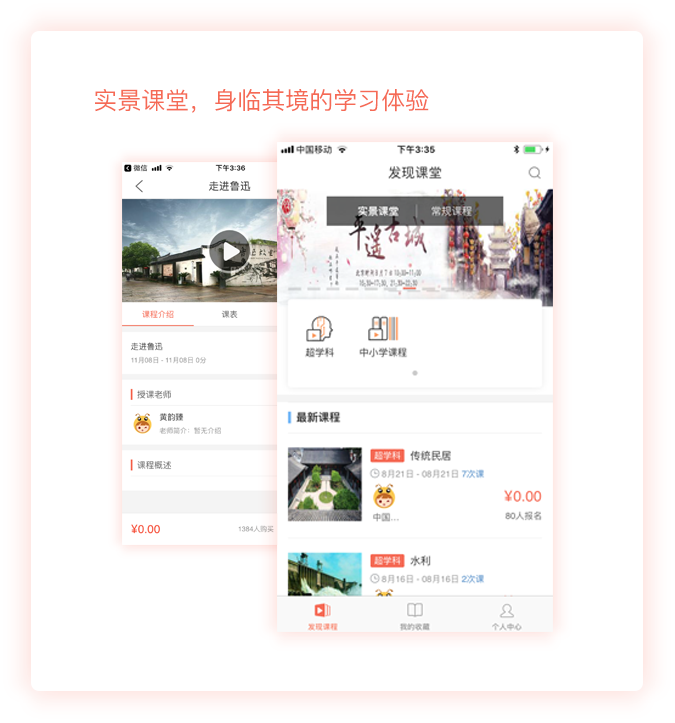
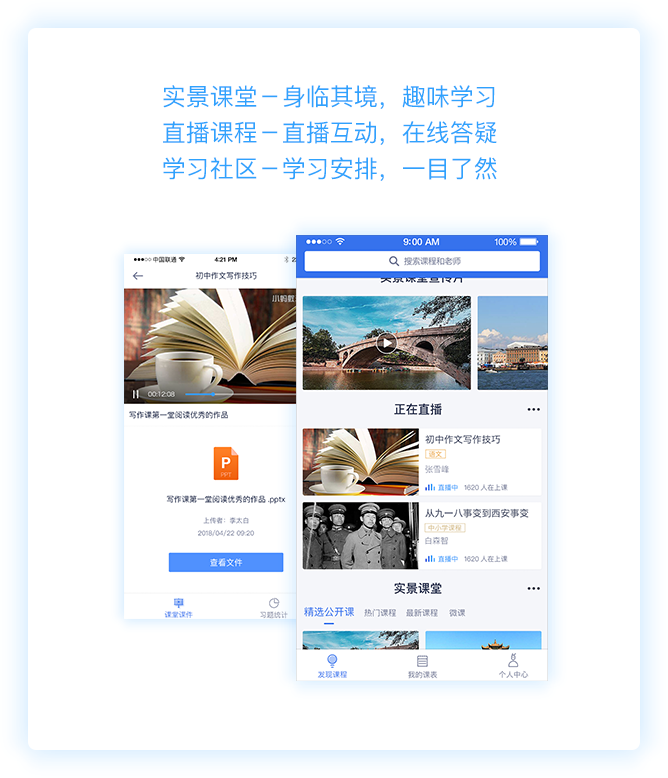
-

diff --git a/src/components/upLoadPage/css/downApp.less b/src/components/upLoadPage/css/downApp.less
@@ -114,7 +114,27 @@
         }
 
       }
+    }
+  }
+  &.yunxiao{
+    .textCont{
+      color: #34A3FD;
+    }
+    .downBtn{
+      &.IOS{
+        span{
+          background:#34A3FD url("../img/btn_ios.png") no-repeat 18px 11px;
+          background-size: 19px;
+        }
 
+      }
+      &.Android{
+        span{
+          background:#34A3FD url("../img/btn_android.png") no-repeat 14px center;
+          background-size: 26px;
+        }
+
+      }
     }
   }
 

diff --git a/src/components/upLoadPage/js/yunxiao.jsx b/src/components/upLoadPage/js/yunxiao.jsx
@@ -28,7 +28,7 @@ export default class yunxiao extends React.Component {
 
     render() {
         return (
-            <div id='fileDownload'>
+            <div id='fileDownload' className='yunxiao'>
                  <div className='topImg'><img src={require('../img/topImg_elearning.png')} alt=""/></div>
                 <div className='textCont'>
                     <div>小蚂蚁云校</div>
